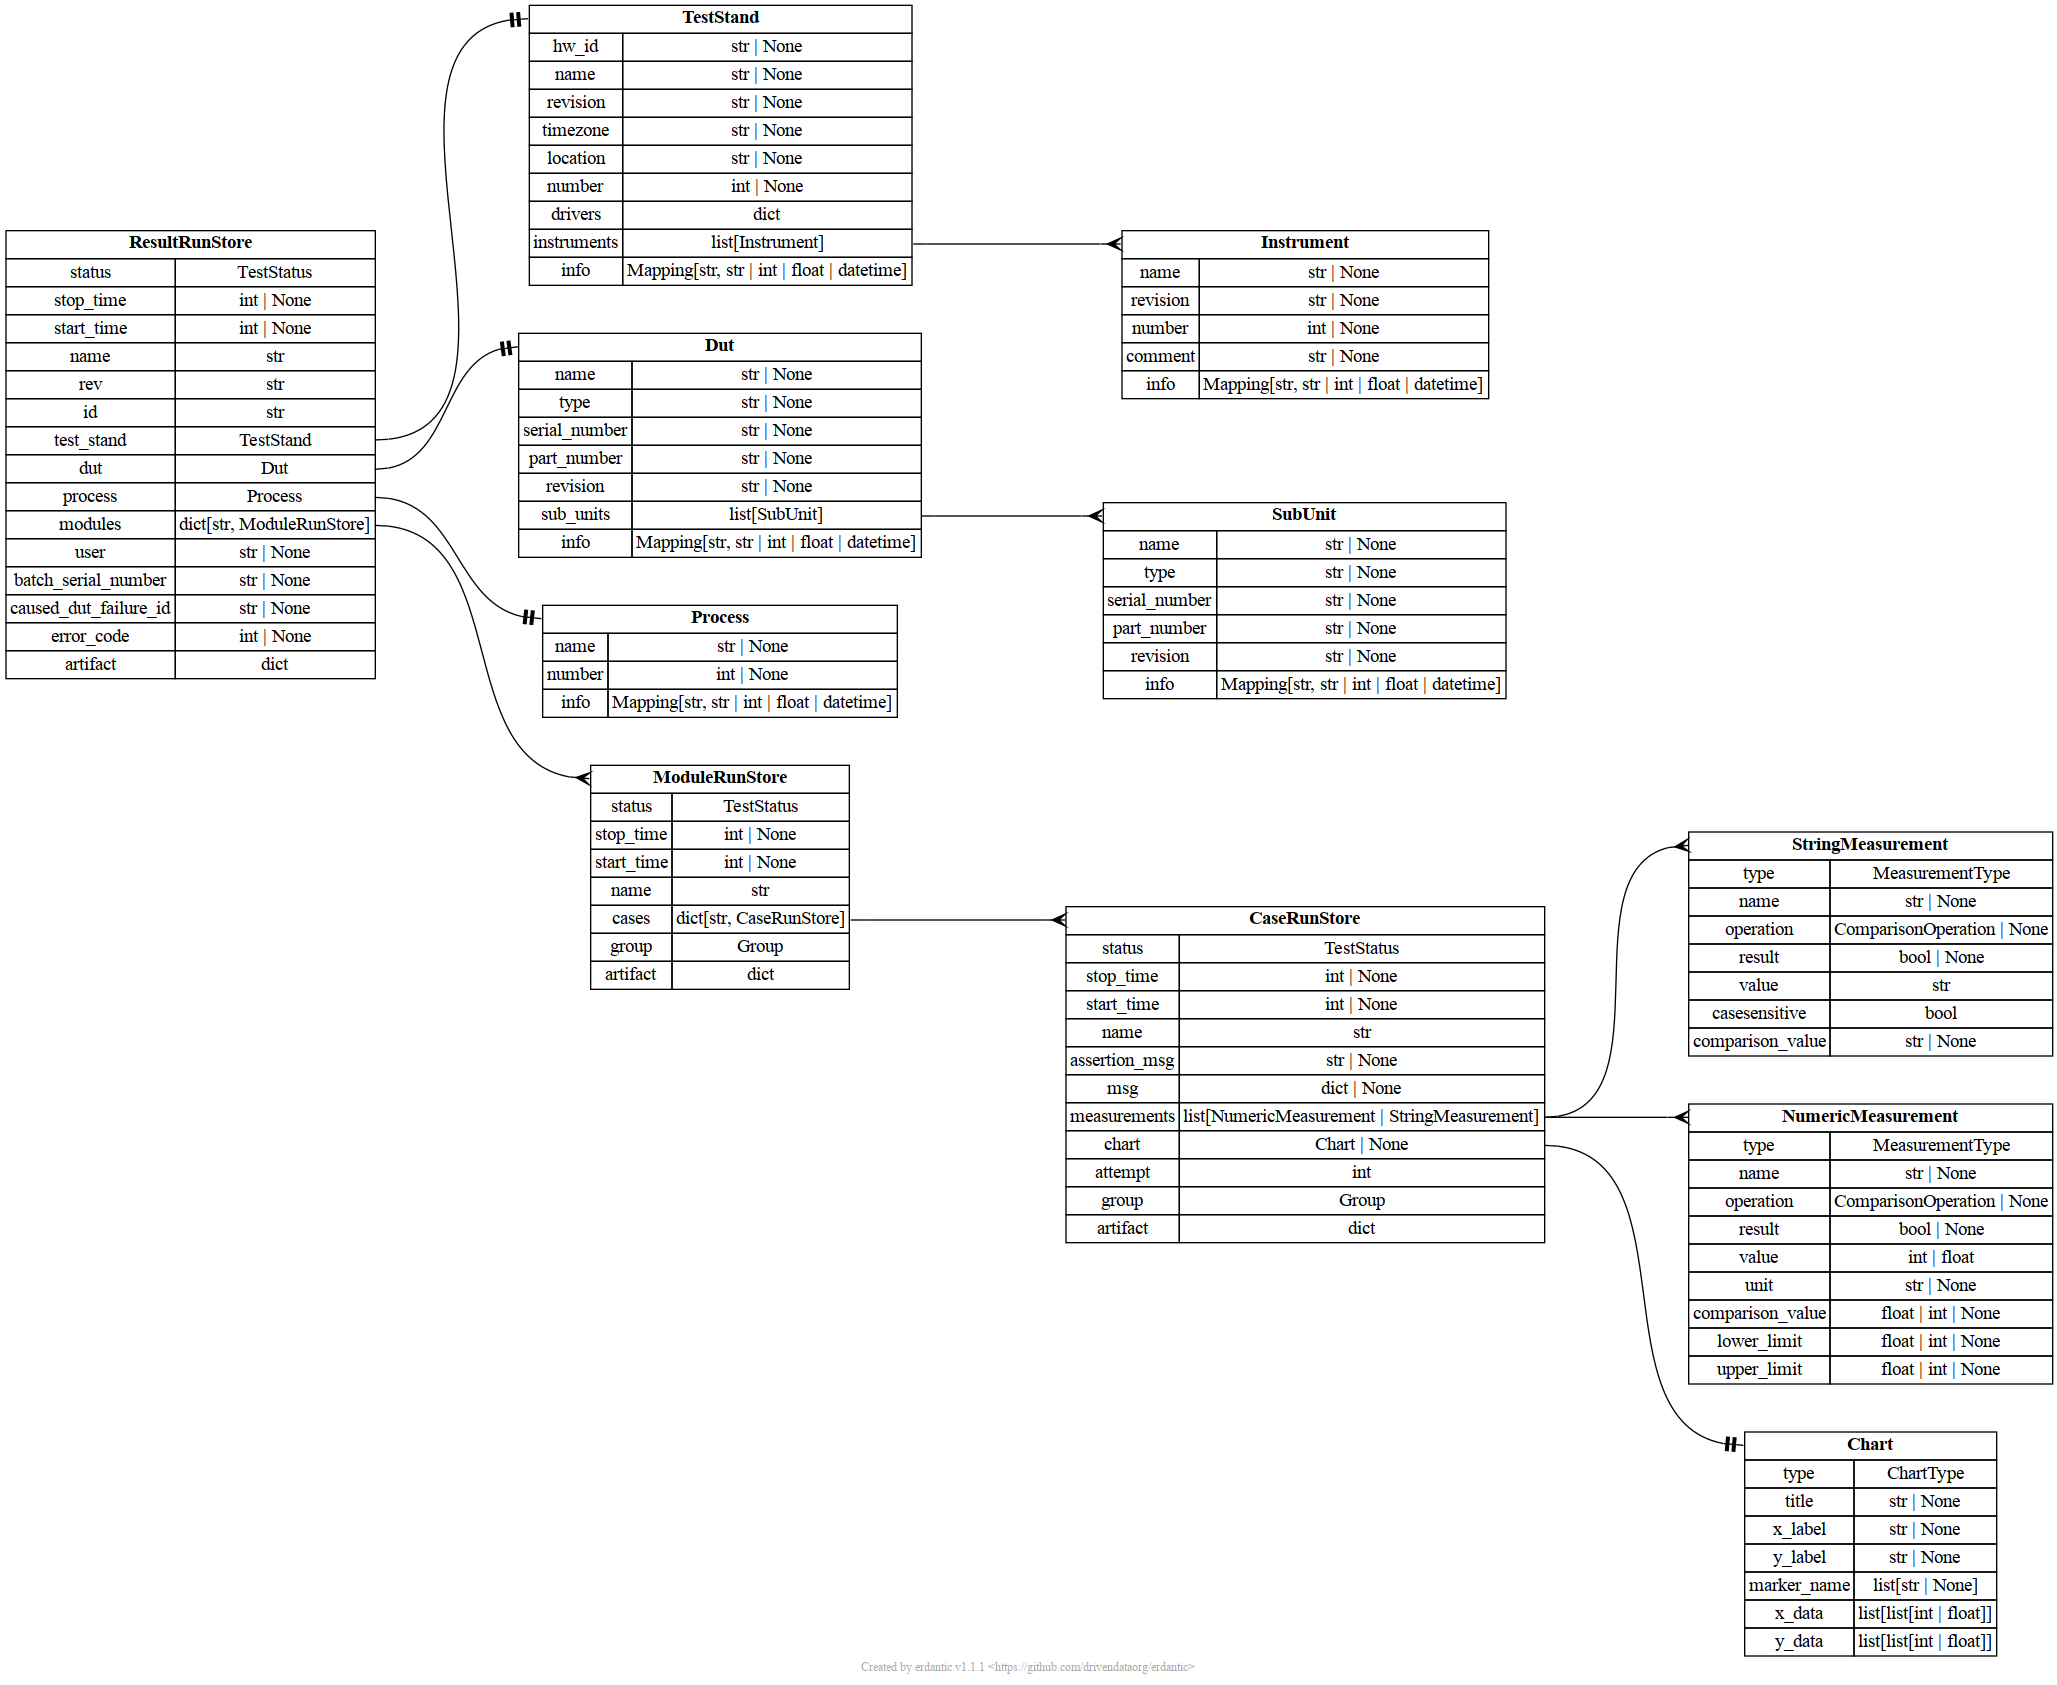
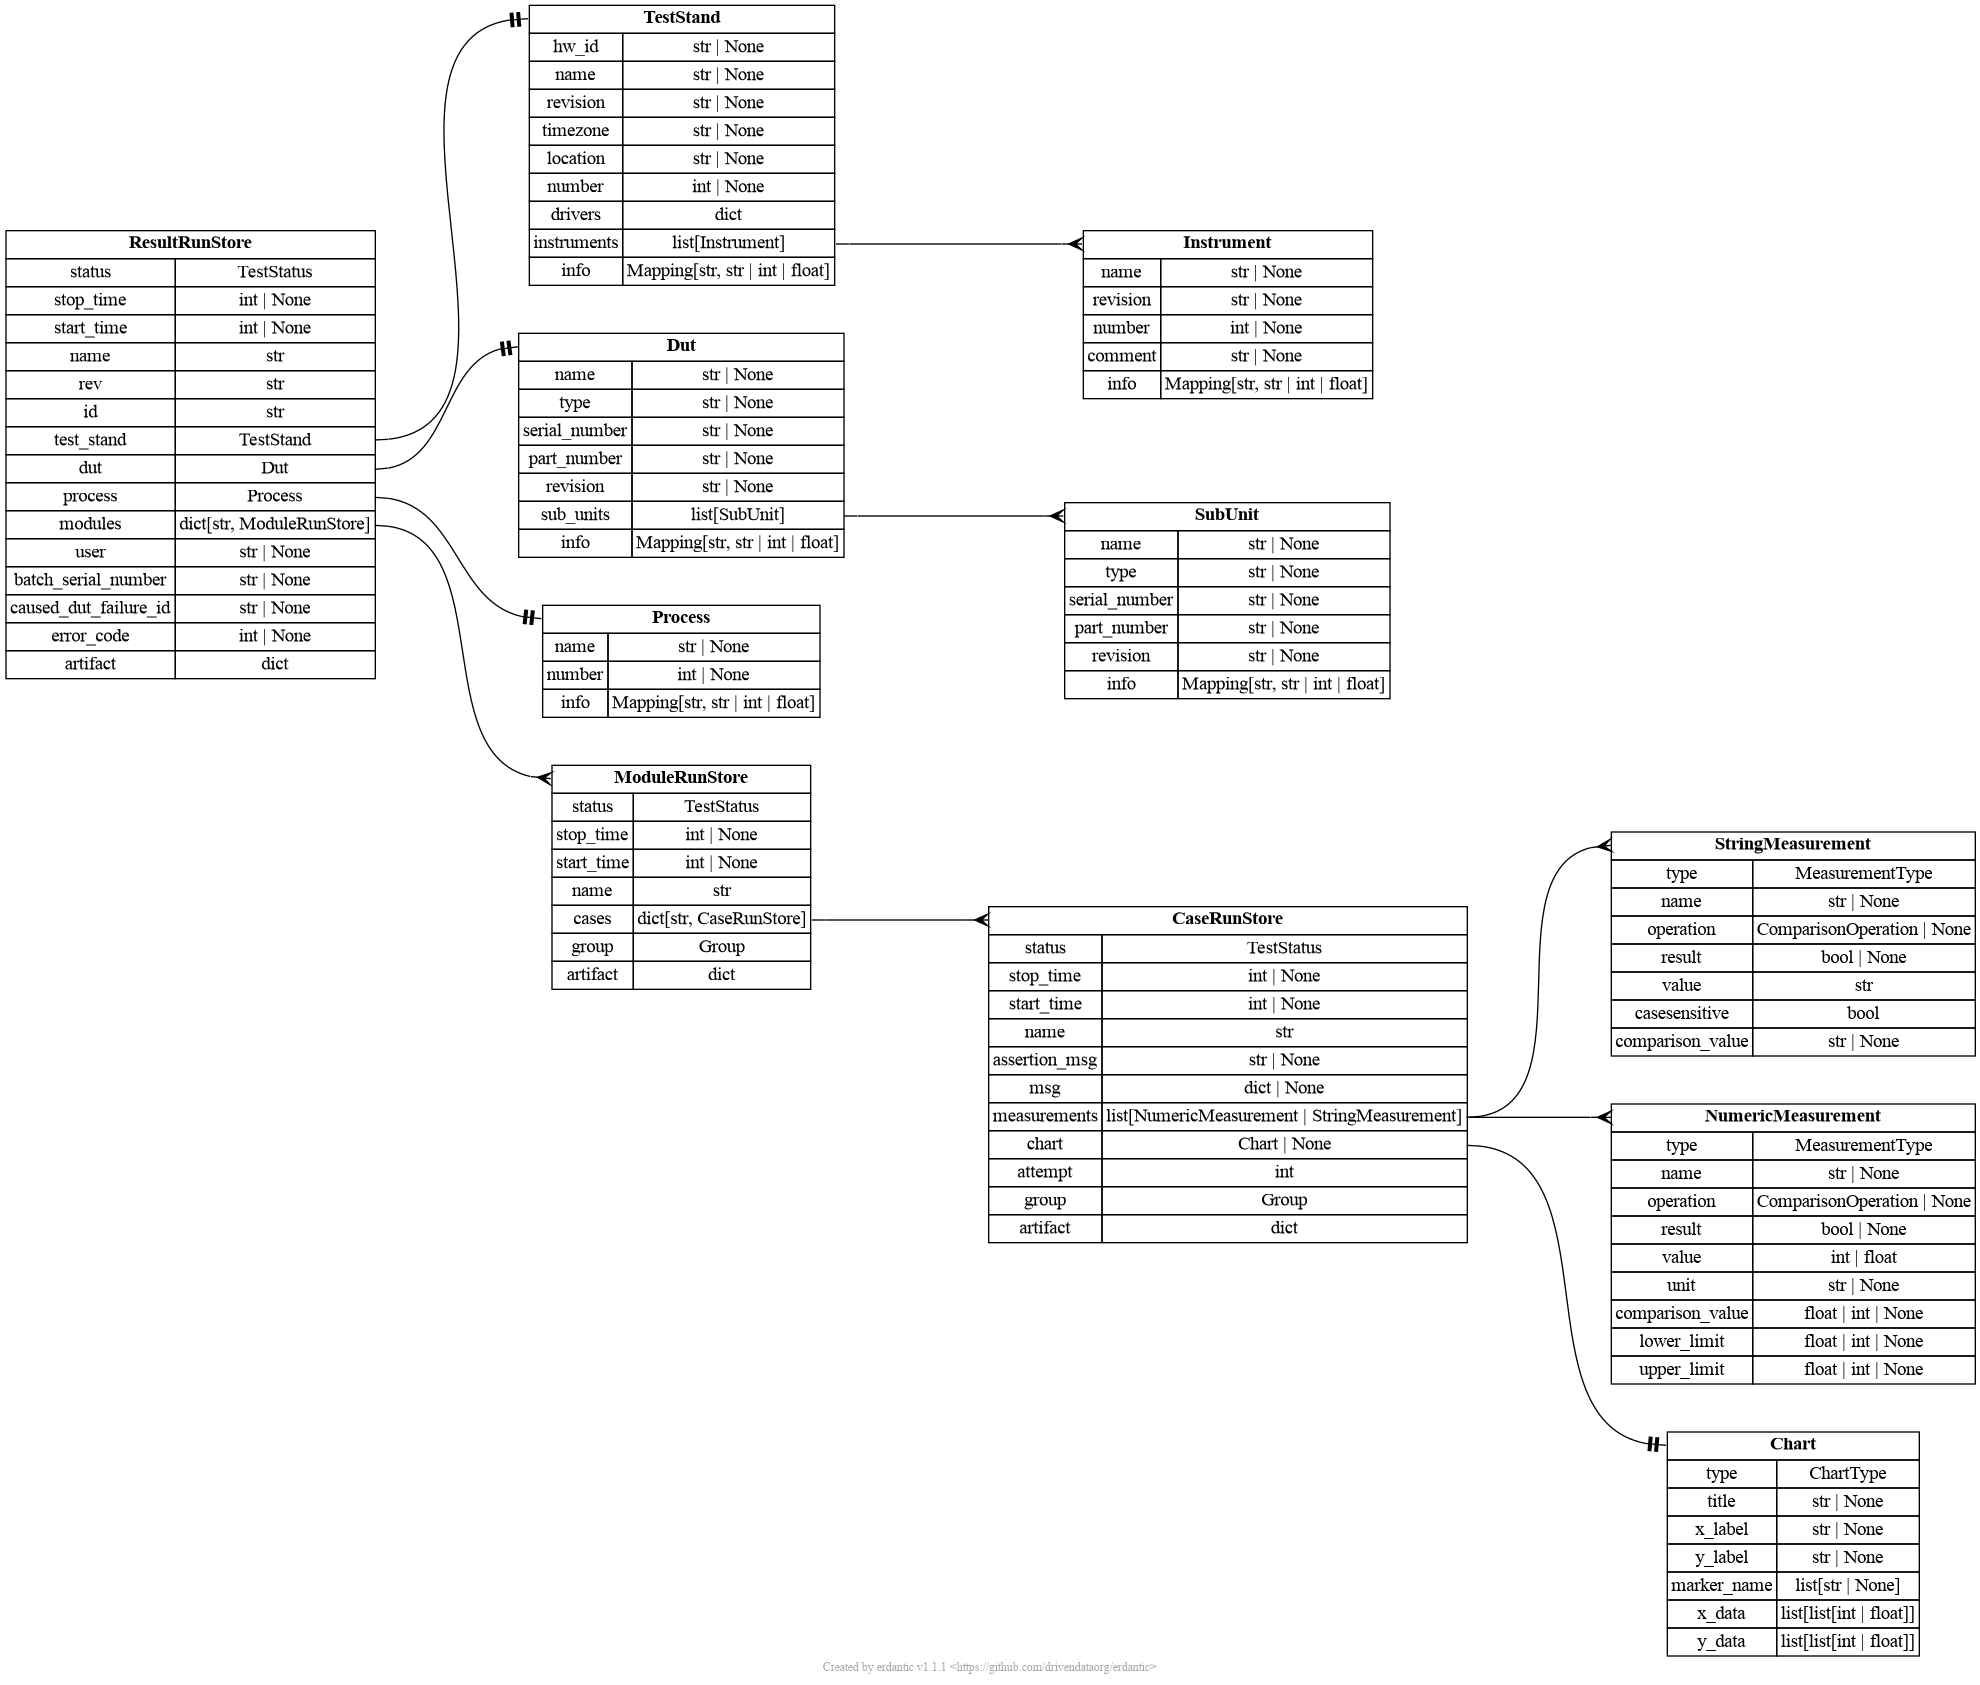
[hardpy, docs] Rm datetime from info fields

diff --git a/hardpy/pytest_hardpy/db/schema/v1.py b/hardpy/pytest_hardpy/db/schema/v1.py
@@ -4,7 +4,6 @@ from __future__ import annotations
 
 from abc import ABC
 from collections.abc import Mapping  # noqa: TC003
-from datetime import datetime  # noqa: TC003
 from typing import ClassVar
 
 from pydantic import BaseModel, ConfigDict, Field
@@ -79,7 +78,7 @@ class Dut(BaseModel):
     part_number: str | None = None
     revision: str | None = None
     sub_units: list[SubUnit] = []
-    info: Mapping[str, str | int | float | datetime] = {}
+    info: Mapping[str, str | int | float] = {}
 
 
 class SubUnit(BaseModel):
@@ -92,7 +91,7 @@ class SubUnit(BaseModel):
     serial_number: str | None = None
     part_number: str | None = None
     revision: str | None = None
-    info: Mapping[str, str | int | float | datetime] = {}
+    info: Mapping[str, str | int | float] = {}
 
 
 class Instrument(BaseModel):
@@ -104,7 +103,7 @@ class Instrument(BaseModel):
     revision: str | None = None
     number: int | None = None
     comment: str | None = None
-    info: Mapping[str, str | int | float | datetime] = {}
+    info: Mapping[str, str | int | float] = {}
 
 
 class TestStand(BaseModel):
@@ -120,7 +119,7 @@ class TestStand(BaseModel):
     number: int | None = None
     drivers: dict = {}  # deprecated, remove in v2
     instruments: list[Instrument] = []
-    info: Mapping[str, str | int | float | datetime] = {}
+    info: Mapping[str, str | int | float] = {}
 
 
 class Process(BaseModel):
@@ -130,7 +129,7 @@ class Process(BaseModel):
 
     name: str | None = None
     number: int | None = None
-    info: Mapping[str, str | int | float | datetime] = {}
+    info: Mapping[str, str | int | float] = {}
 
 
 class IBaseMeasurement(BaseModel, ABC):

diff --git a/hardpy/pytest_hardpy/pytest_call.py b/hardpy/pytest_hardpy/pytest_call.py
@@ -33,7 +33,6 @@ from hardpy.pytest_hardpy.utils import (
 
 if TYPE_CHECKING:
     from collections.abc import Mapping
-    from datetime import datetime
 
 
 @dataclass
@@ -154,7 +153,7 @@ def set_dut_sub_unit(sub_unit: SubUnit) -> int:
     return len(sub_units) - 1
 
 
-def set_dut_info(info: Mapping[str, str | int | float | datetime]) -> None:
+def set_dut_info(info: Mapping[str, str | int | float]) -> None:
     """Set DUT info to document.
 
     Args:
@@ -278,13 +277,13 @@ def set_stand_name(name: str) -> None:
     reporter.update_db_by_doc()
 
 
-def set_stand_info(info: Mapping[str, str | int | float | datetime]) -> None:
+def set_stand_info(info: Mapping[str, str | int | float]) -> None:
     """Add test stand info to document.
 
     Args:
-        info (Mapping[str, str | int | float | datetime]): test stand info as a mapping
-            where keys are strings and values can be strings, integers, floats or datetime objects
-    """  # noqa: E501
+        info (Mapping[str, str | int | float ]): test stand info as a mapping
+            where keys are strings and values can be strings, integers, floats objects
+    """
     reporter = RunnerReporter()
     for stand_key, stand_value in info.items():
         key = reporter.generate_key(DF.TEST_STAND, DF.INFO, stand_key)
@@ -524,7 +523,7 @@ def set_process_number(number: int) -> None:
     reporter.update_db_by_doc()
 
 
-def set_process_info(info: Mapping[str, str | int | float | datetime]) -> None:
+def set_process_info(info: Mapping[str, str | int | float]) -> None:
     """Set process info to document.
 
     Args:

diff --git a/docs/documentation/pytest_hardpy.md b/docs/documentation/pytest_hardpy.md
@@ -223,7 +223,7 @@ When called again, the information will be merged with existing data.
 
 **Arguments:**
 
-- `info` *(Mapping[str, str | int | float | datetime])*: Test stand info dictionary
+- `info` *(Mapping[str, str | int | float ])*: Test stand info dictionary
 
 **Example:**
 
@@ -321,7 +321,7 @@ Accepts an [Instrument](#instrument) object containing all instrument details.
 - `revision` *(str | None)*: Instrument revision  
 - `number` *(int | None)*: Instrument number  
 - `comment` *(str | None)*: Instrument comment  
-- `info` *(Mapping[str, str | int | float | datetime] | None)*: Additional instrument info 
+- `info` *(Mapping[str, str | int | float ] | None)*: Additional instrument info 
 
 **Example:**
 
@@ -375,7 +375,7 @@ When called again, the information will be merged with existing data.
 
 **Arguments:**
 
-- `info` *(Mapping[str, str | int | float | datetime])*: Process info dictionary
+- `info` *(Mapping[str, str | int | float ])*: Process info dictionary
 
 **Example:**
 
@@ -384,7 +384,6 @@ def test_process_info():
     set_process_info({
         "stage": "production",
         "version": "1.0",
-        "started_at": datetime.now()
     })
 ```
 
@@ -987,7 +986,7 @@ It is used with the [set_instrument](#set_instrument) function.
 - `revision` *(str | None)*: Instrument revision  
 - `number` *(int | None)*: Instrument number  
 - `comment` *(str | None)*: Instrument comment  
-- `info` *(Mapping[str, str | int | float | datetime] | None)*: Additional instrument info as key-value pairs  
+- `info` *(Mapping[str, str | int | float | None)*: Additional instrument info as key-value pairs  
 
 **Returns:**
 
@@ -1007,7 +1006,6 @@ oscilloscope = Instrument(
     info={
         "model": "DSO-X 2024A",
         "bandwidth": "200MHz",
-        "calibration_date": datetime(2023, 11, 15)
     }
 )
 
@@ -1026,7 +1024,7 @@ It is used with the [set_dut_sub_unit](#set_dut_sub_unit) function.
 - `name` *(str | None)*: unit name  
 - `type` *(str | None)*: unit type
 - `revision` *(str | None)*: unit revision  
-- `info` *(Mapping[str, str | int | float | datetime] | None)*: additional unit info as key-value pairs  
+- `info` *(Mapping[str, str | int | float ] | None)*: additional unit info as key-value pairs  
 
 **Example:**
 
